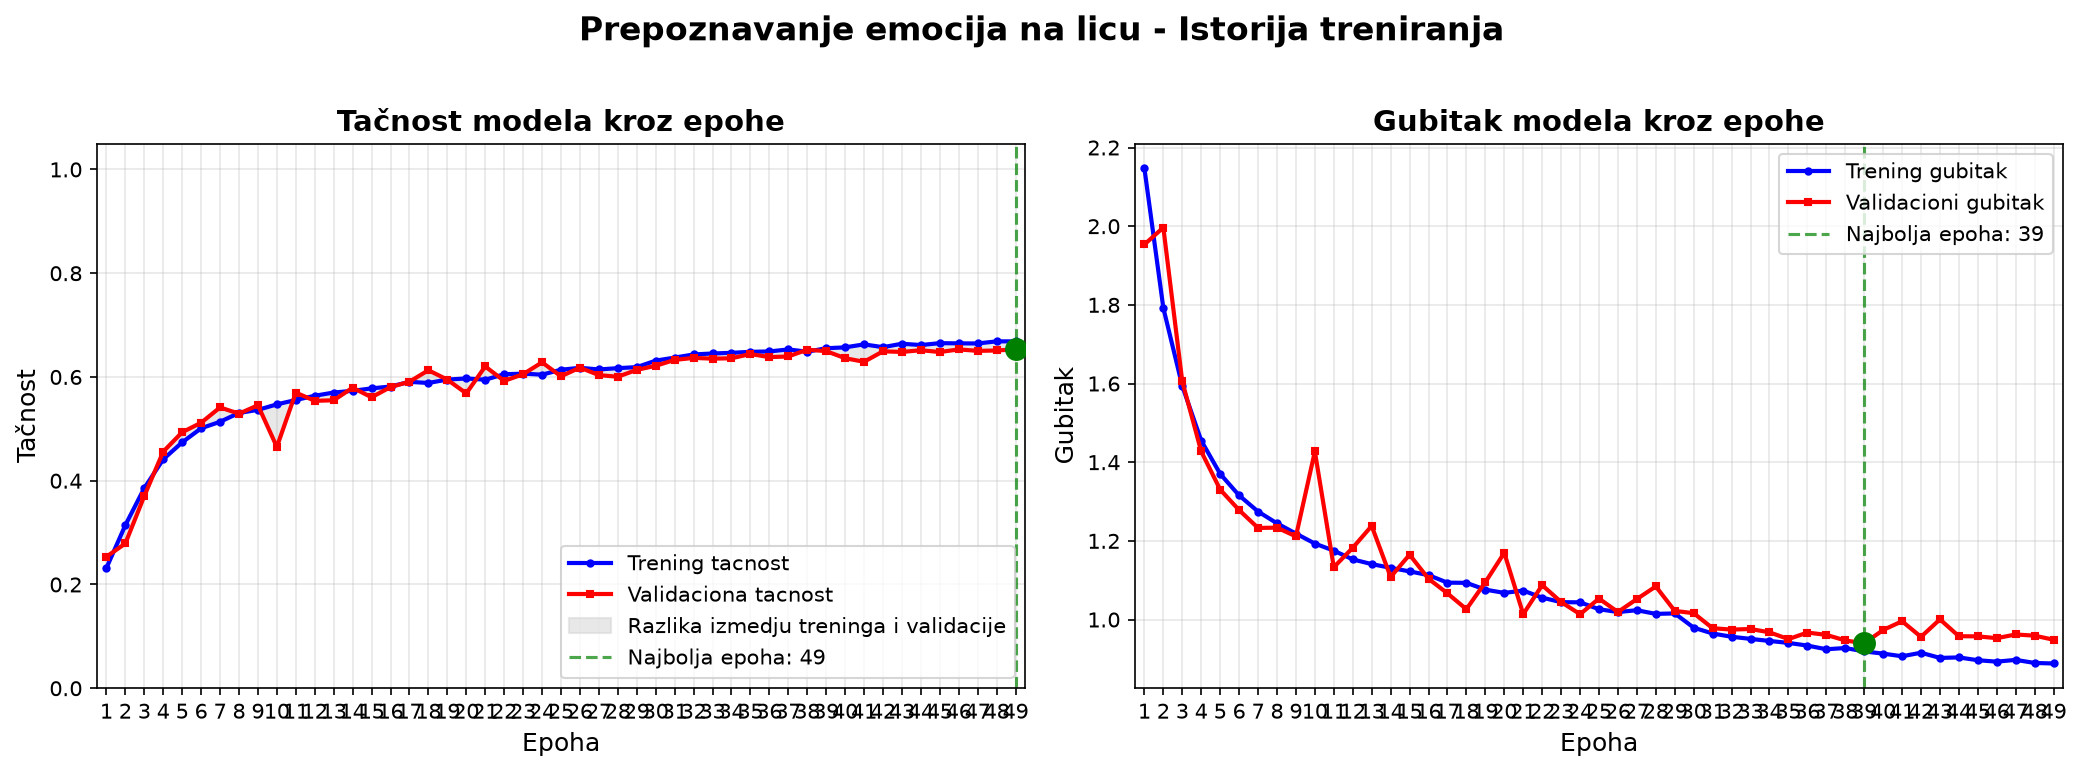
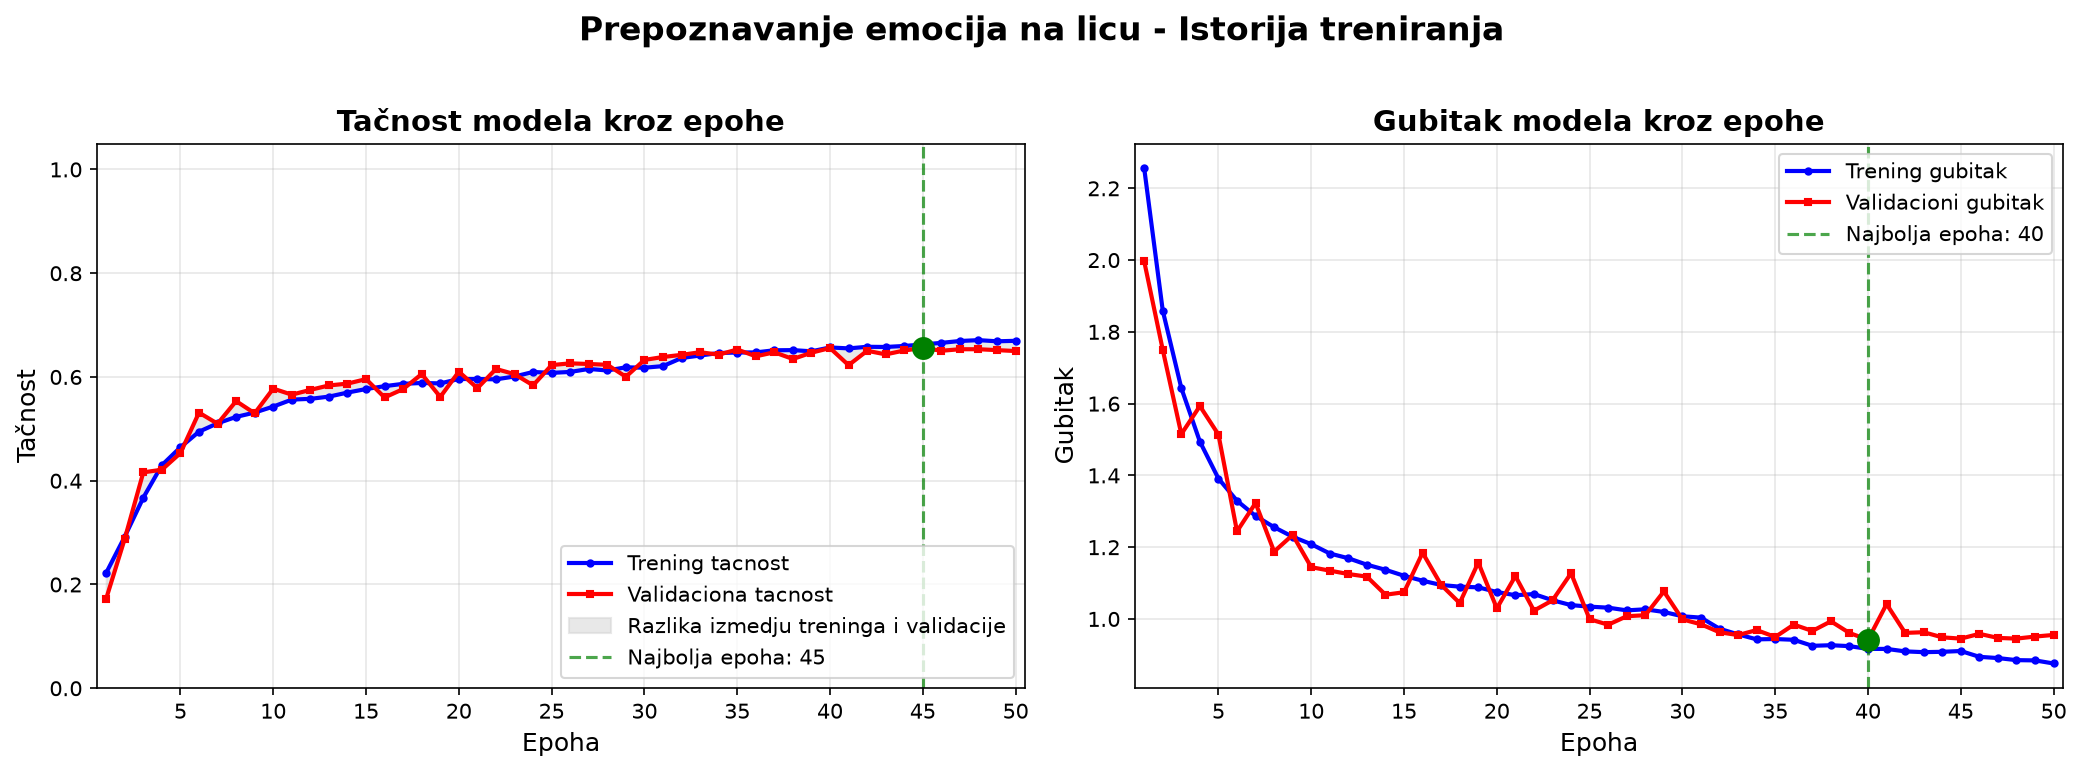
Simple fix

diff --git a/fer.py b/fer.py
@@ -139,11 +139,11 @@ def set_callbacks( path = 'best_model.weights.h5' ):
             save_best_only      = True          ,
             save_weights_only   = True          ,       #Cuvamo samo tezine, ne ceo model
             mode                = 'max'         ,
-            verbose             = 1     #Detaljnost prikaza
+            verbose             = 1                     #Detaljnost prikaza
         ),
 
         EarlyStopping(
-            monitor  = 'val_loss',     #Moze i val_accuracy, ali nije precizno jer moze da stagnira dok se val_loss smanjuje
+            monitor  = 'val_loss',              #Moze i val_accuracy, ali nije precizno jer moze da stagnira dok se val_loss smanjuje
             patience = 10        ,
             verbose  = 1         ,              
             restore_best_weights = True
@@ -237,7 +237,6 @@ def plot_training_history( history ):
                 )
     
     ax1.xaxis.set_major_locator( plt.MaxNLocator( nbins = 10, integer = True ) )
-    # ax1.set_xticks( epochs_range )  
     ax1.set_xlim( [ 0.5, epochs_count + 0.5 ] )
     
     ax1.set_title( 'Tačnost modela kroz epohe', fontsize = 14, fontweight = 'bold' )
@@ -269,7 +268,6 @@ def plot_training_history( history ):
     best_val_loss = min( history.history[ 'val_loss' ] )
     best_loss_epoch = history.history[ 'val_loss' ].index( best_val_loss ) + 1
     
-    # ax2.set_xticks( epochs_range )  
     ax2.xaxis.set_major_locator( plt.MaxNLocator( nbins = 10, integer = True ) )
     ax2.set_xlim( [ 0.5, epochs_count + 0.5 ] )
     
@@ -304,9 +302,6 @@ def plot_training_history( history ):
                  bbox_inches = 'tight'
                 )
     
-    plt.show()
-    plt.close( figure )
-
 # ---------------------------- #
 
 def plot_confusion_matrix( model                                                                                ,
@@ -327,7 +322,7 @@ def plot_confusion_matrix( model                                                
 
     cm = confusion_matrix( true_classes, predicted_classes )
 
-    fig = plt.figure( figsize = ( 10, 8 ) )
+    plt.figure( figsize = ( 10, 8 ) )
     
     sns.heatmap( cm,
                 annot = True,
@@ -342,8 +337,6 @@ def plot_confusion_matrix( model                                                
     plt.ylabel( 'Stvarne klase'   , fontsize = 12 )
     plt.tight_layout()
     plt.savefig( 'confusion_matrix.png', dpi = 300, bbox_inches = 'tight' )
-    plt.show()
-    plt.close( fig )
 
 # ---------------------------- #
 